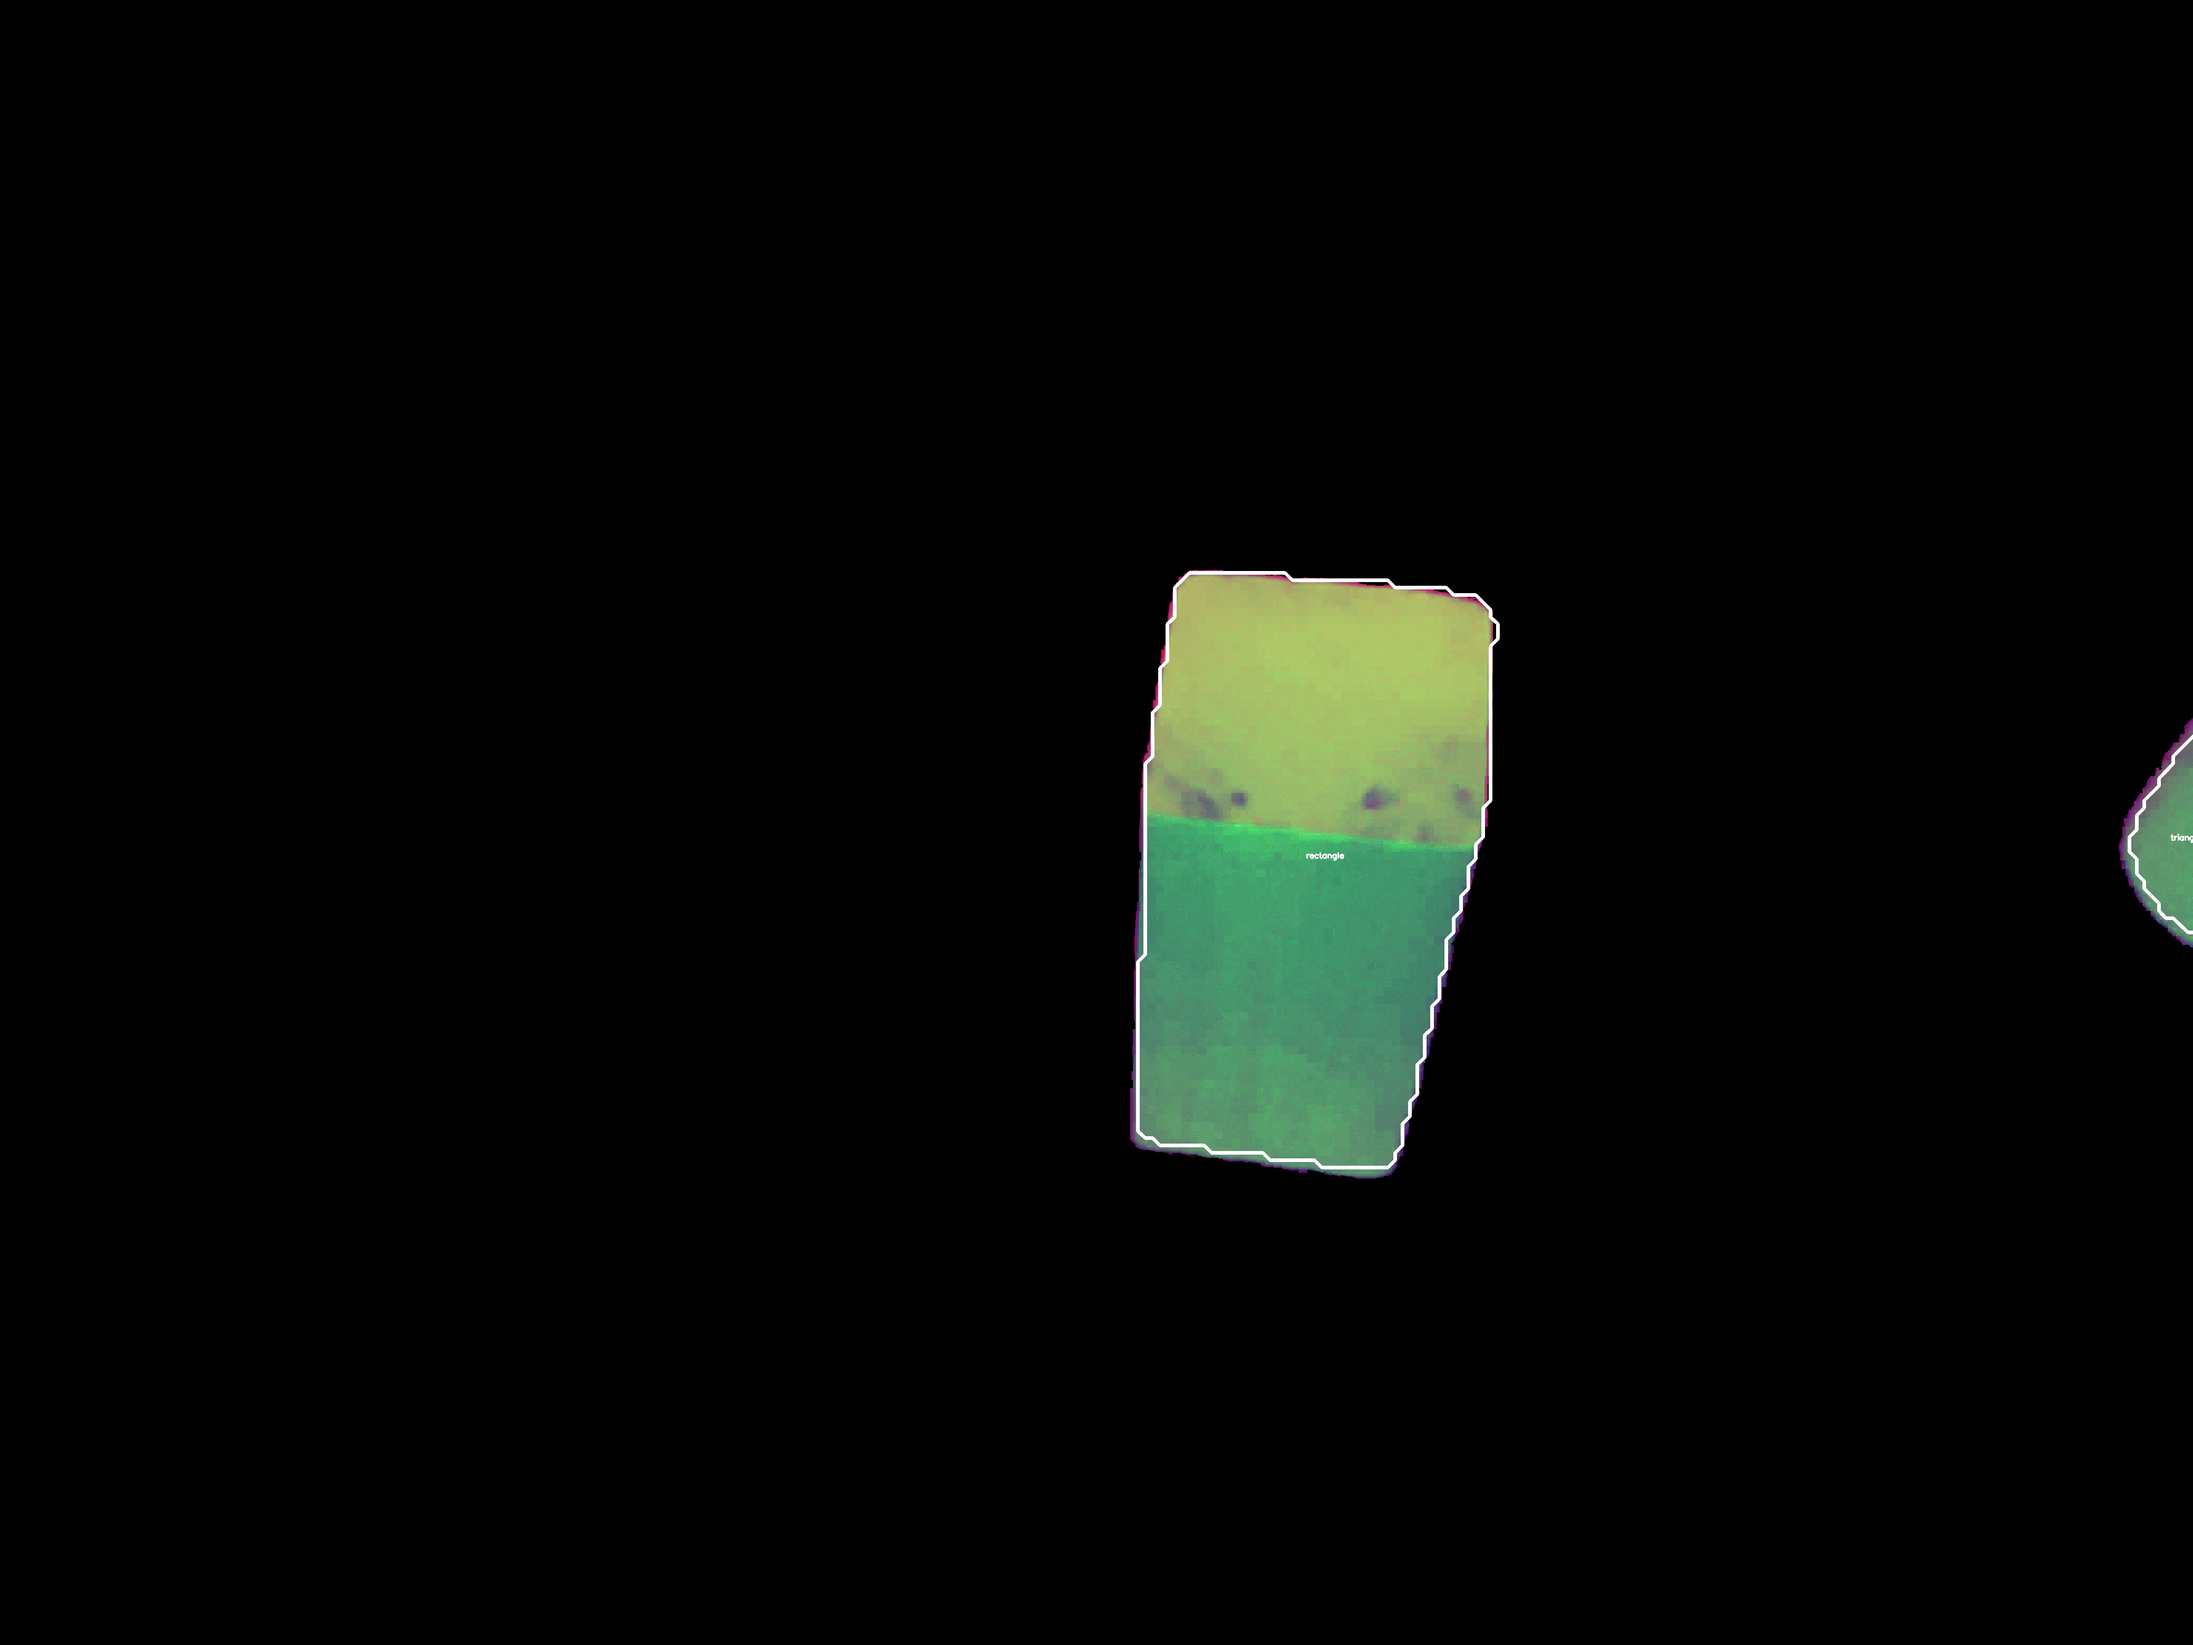
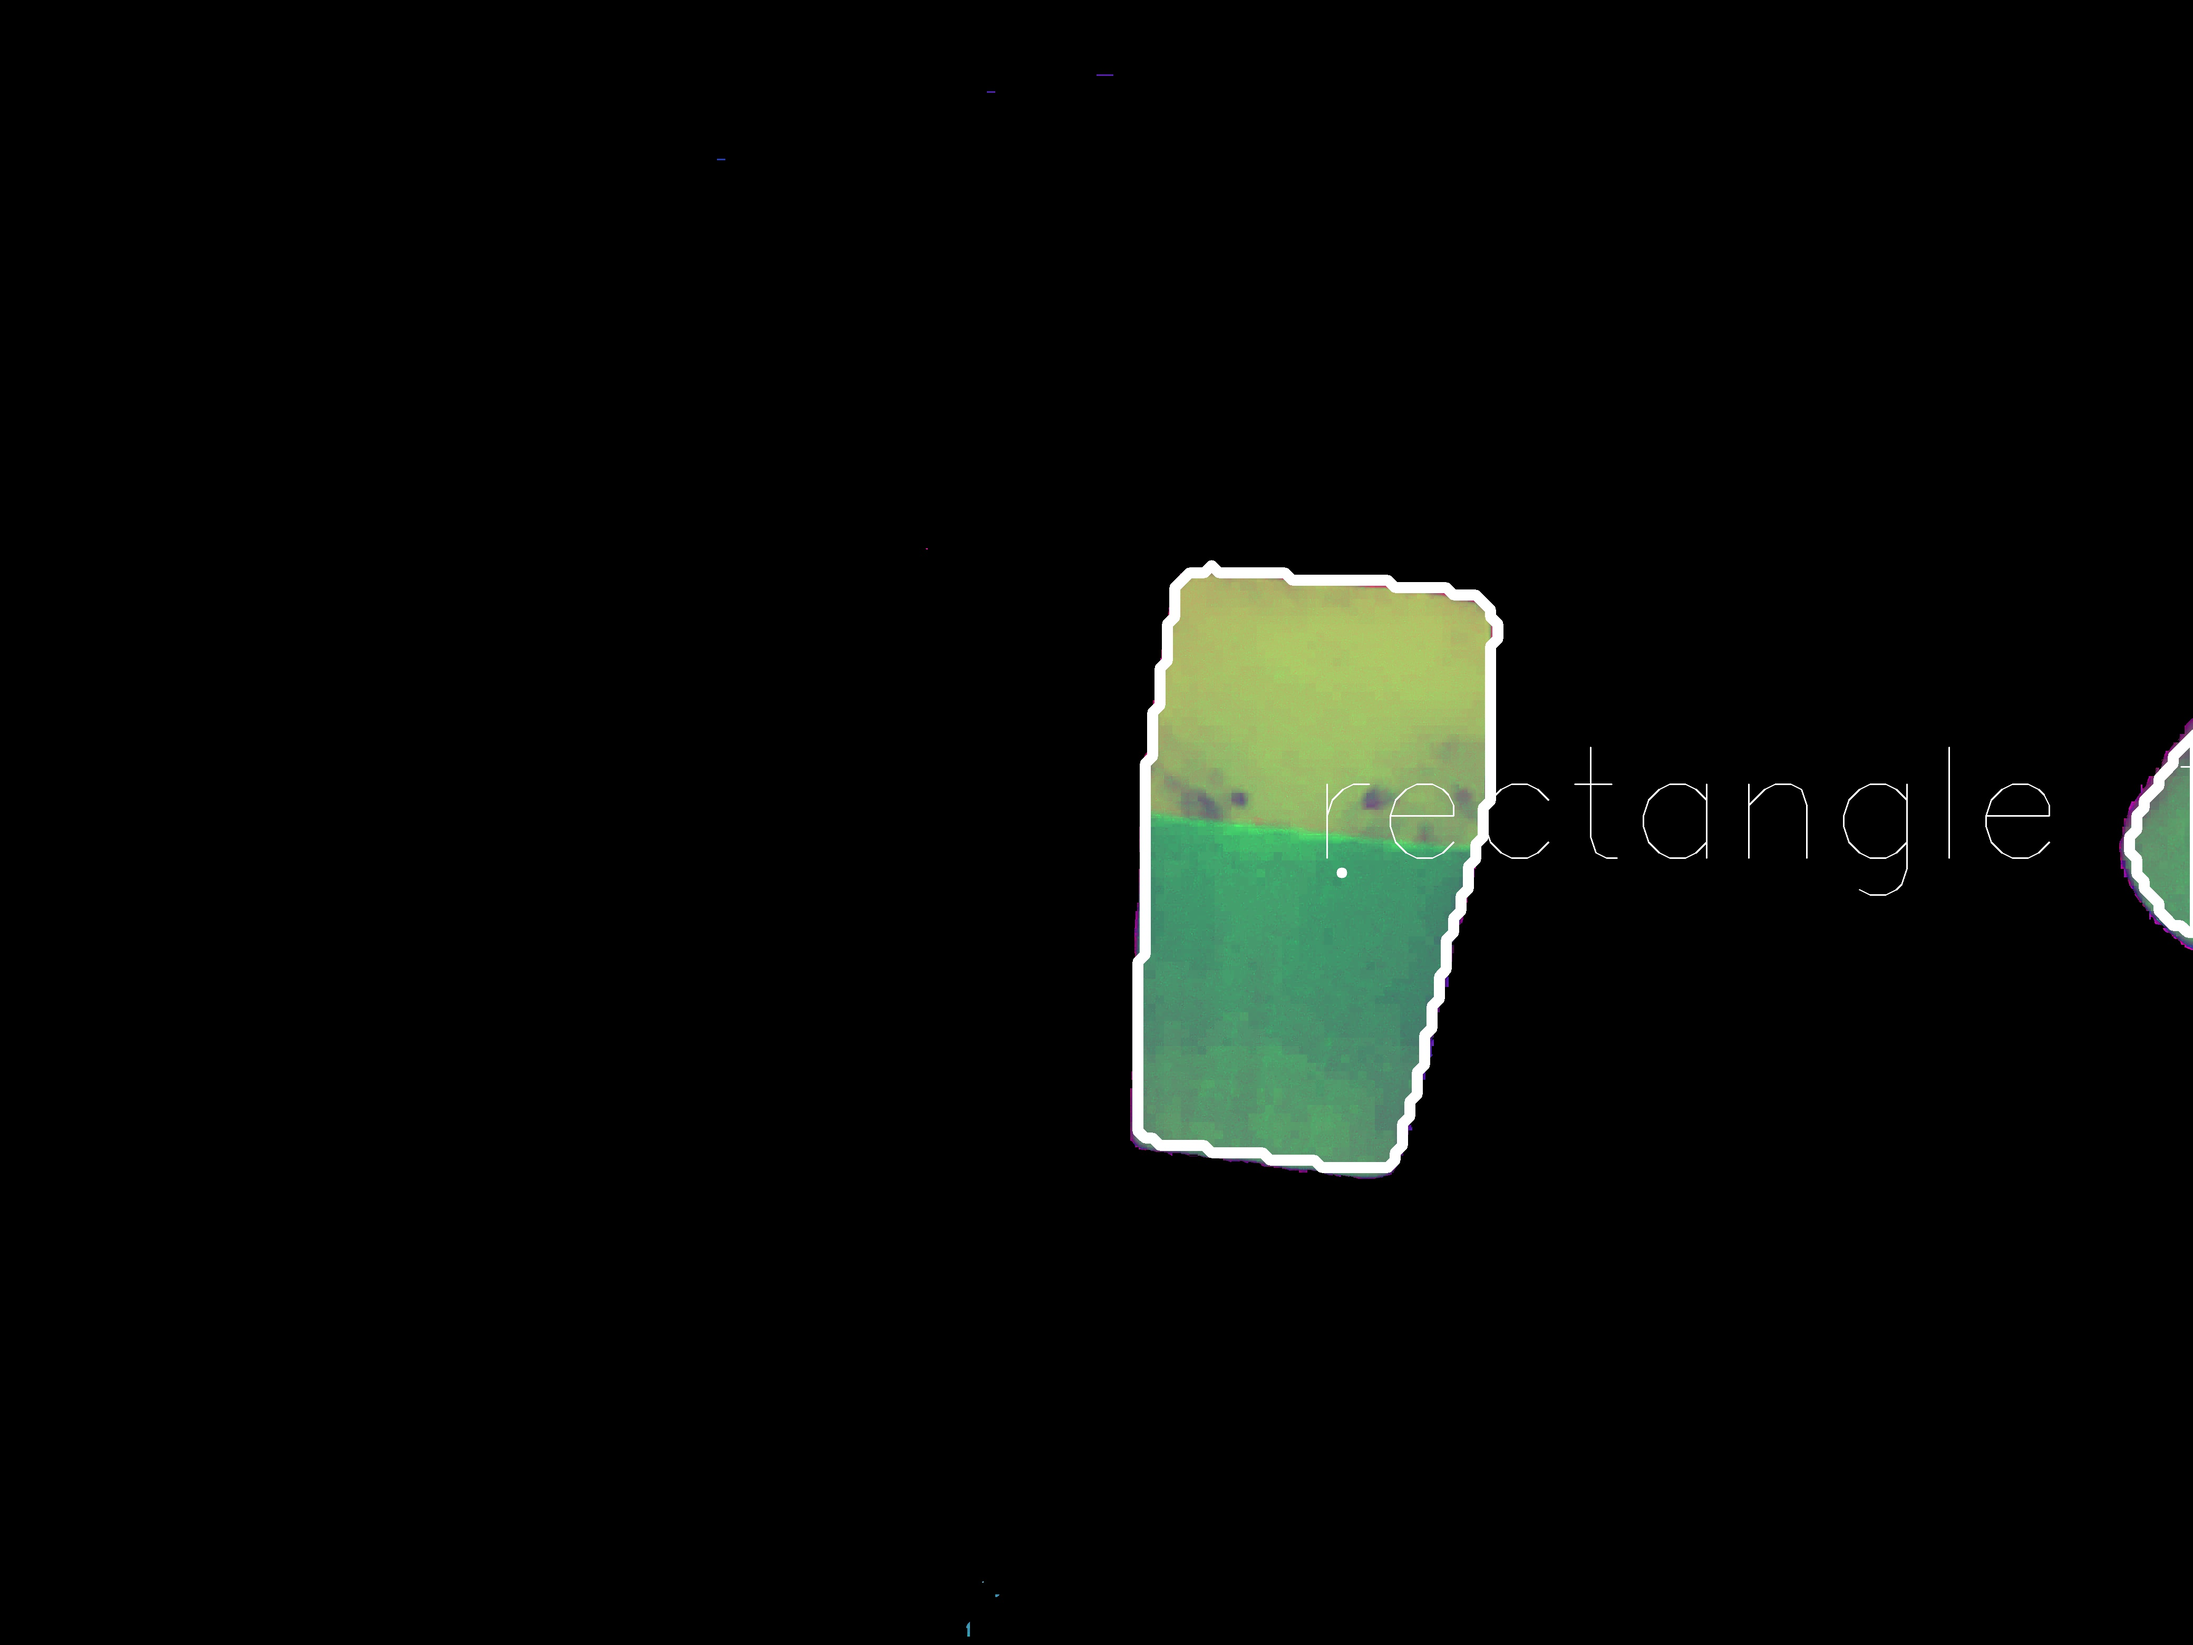
returning coordinates for shapes

diff --git a/src/object_detection/scripts/shape-detection/detect_shapes.py b/src/object_detection/scripts/shape-detection/detect_shapes.py
@@ -3,6 +3,7 @@ import argparse
 import imutils
 import cv2
 import numpy as np
+import sys
 from matplotlib import pyplot as plt
 
 def color_filter(img, lower, upper):
@@ -14,16 +15,48 @@ def color_filter(img, lower, upper):
     mask = cv2.inRange(hsv, lower_range, upper_range)
     return cv2.bitwise_and(hsv, hsv, mask=mask)
 
+def init_results():
+	return {'rectangle': [],
+			'circle': [],
+			'square': []}
+
+def categorize(shape, contour):
+	results = init_results()
+	if shape not in results.keys():
+		return
+	results[shape].append(contour)
+	return results
+
 # construct the argument parse and parse the arguments
 ap = argparse.ArgumentParser()
 ap.add_argument("-i", "--image", required=True,
 	help="path to the input image")
+
+ap.add_argument("-s", "--shape", required=True,
+	help="type of shape [rectangle, circle, square]")
+
+ap.add_argument("-c", "--color", required=True,
+	help="color of object [red, green, blue, yellow]")
+
 args = vars(ap.parse_args())
 
 # load the image and resize it to a smaller factor so that
 # the shapes can be approximated better
 image = cv2.imread(args["image"])
-image = color_filter(image, [100, 0, 0], [150, 255, 255])
+color = args["color"]
+min_limit = [0,0,0]
+max_limit = [255,255,255]
+
+if color == "blue":
+	# min_limit = [103, 50, 180]
+	min_limit = [100, 0, 0]
+	# max_limit = [130, 255, 255]
+	max_limit = [255, 255, 255]
+elif color == "yellow":
+	min_limit = [20, 0, 0]
+	max_limit = [40, 200, 255]
+
+image = color_filter(image, min_limit, max_limit)
 # cv2.imwrite("test.jpg", image)
 
 resized = imutils.resize(image, width=300)
@@ -58,11 +91,38 @@ for c in cnts:
 	c = c.astype("float")
 	c *= ratio
 	c = c.astype("int")
-	cv2.drawContours(image, [c], -1, (255, 255, 255), 5)
-	cv2.putText(image, shape, (cX, cY), cv2.FONT_HERSHEY_SIMPLEX,
-		0.5, (255, 255, 255), 2)
+	results = categorize(shape, c)
 
-	# show the output image
-	# plt.imshow(image)
-	cv2.imwrite("test.jpg", image)
-	# cv2.waitKey(0)
+	cv2.drawContours(image, [c], -1, (255, 255, 255), 20)
+	cv2.putText(image, shape, (cX, cY), cv2.FONT_HERSHEY_SIMPLEX,
+		10, (255, 255, 255), 2)
+
+requested_shape = args["shape"]
+
+if len(results[shape]) == 0:
+	print("No requested shape found")
+	sys.exit()
+
+cx = 0
+cy = 0
+
+if requested_shape == "rectangle" or requested_shape == "square":
+	if len(results[requested_shape]) != 0:
+		contour = results[requested_shape][0] # set contour
+		for x in contour:
+			cx += x[0][0]
+			cy += x[0][1]
+		cx = int(cx / len(contour))
+		cy = int(cy/len(contour))
+		cv2.circle(image, (cx, cy), 10, (255, 255, 255), -1)
+
+if requested_shape == "circle":
+	
+
+
+
+
+# show the output image
+# plt.imshow(image)
+cv2.imwrite("test.jpg", image)
+cv2.waitKey(0)

diff --git a/src/object_detection/scripts/shape-detection/pyimagesearch/shapedetector.py b/src/object_detection/scripts/shape-detection/pyimagesearch/shapedetector.py
@@ -25,11 +25,7 @@ class ShapeDetector:
 
 			# a square will have an aspect ratio that is approximately
 			# equal to one, otherwise, the shape is a rectangle
-			shape = "square" if ar >= 0.95 and ar <= 1.05 else "rectangle"
-
-		# if the shape is a pentagon, it will have 5 vertices
-		elif len(approx) == 5:
-			shape = "pentagon"
+			shape = "square" if ar >= 0.90 and ar <= 1.1 else "rectangle"
 
 		# otherwise, we assume the shape is a circle
 		else:
